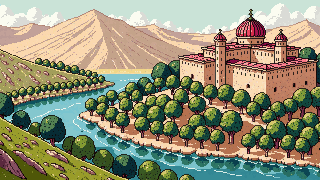
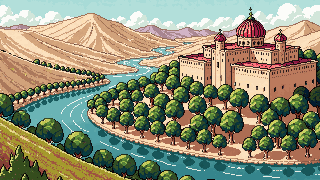
feat: regenerate all location backgrounds and portraits at highly-detailed quality
Bumps detail="highly detailed" (was implicit "low detail" default) at all
three generate_pixflux call sites in generate_backgrounds.py and
generate_portraits.py, then re-runs both generators with --force to
regenerate every existing asset. outline/shading left unchanged to keep
the flat manuscript-miniature look consistent across the whole game.

diff --git a/tools/pixellab/generate_portraits.py b/tools/pixellab/generate_portraits.py
@@ -37,6 +37,7 @@ def generate_npc(client, entry: dict, portraits_dir: Path) -> tuple[dict, Path]:
         image_size=PORTRAIT_SIZE,
         seed=compute_seed(entry["id"]),
         no_background=True,
+        detail="highly detailed",
     )
     portraits_dir.mkdir(parents=True, exist_ok=True)
     path = portraits_dir / f"{entry['id']}.png"
@@ -93,6 +94,7 @@ def run_farrukh_stages(client, stages: list[dict], force, portraits_dir: Path = 
                 no_background=True,
                 init_image=previous_image,
                 color_image=previous_image,
+                detail="highly detailed",
             )
         except Exception as exc:
             print(f"FAILED farrukh_stage_{stage}: {exc}")

diff --git a/tools/pixellab/generate_backgrounds.py b/tools/pixellab/generate_backgrounds.py
@@ -38,6 +38,7 @@ def generate_location(client, entry: dict, backgrounds_dir: Path) -> tuple[dict,
         description=build_description(entry["description"]),
         image_size=IMAGE_SIZE,
         seed=compute_seed(entry["output"]),
+        detail="highly detailed",
     )
     backgrounds_dir.mkdir(parents=True, exist_ok=True)
     chapter_paths = [backgrounds_dir / f"{chapter_id}.png" for chapter_id in entry["chapter_ids"]]
